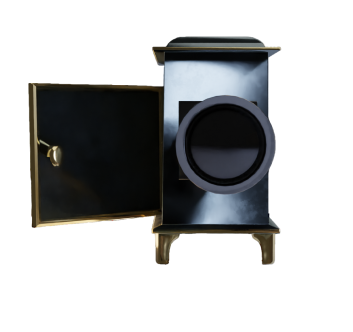
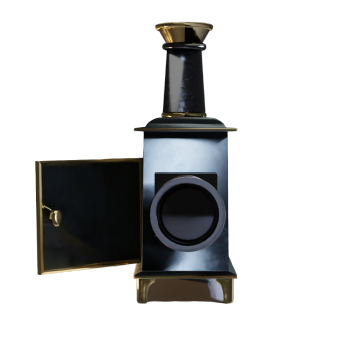
terminado linterna magica

diff --git a/src/web-app/components/DraggableLantern/DraggableLantern.jsx b/src/web-app/components/DraggableLantern/DraggableLantern.jsx
@@ -1,27 +1,38 @@
 import React, { useState, useEffect } from 'react';
 import DropZone from '../DropZone/DropZone'; // Importa el componente DropZone
 
-const DraggableLantern = ({ lanternState, srcBulb, srcPlaca, srcTop, onDrop }) => {
+const DraggableLantern = ({ lanternState, srcSin, srcBulb, srcTop, srcFront, srcPlaca, onDrop }) => {
   const [currentLanternState, setCurrentLanternState] = useState(lanternState); // Estado actual de la linterna mágica
+  const [flipped, setFlipped] = useState(false); // Estado para saber si la linterna está volteada
 
   useEffect(() => {
     setCurrentLanternState(lanternState);
   }, [lanternState]);
 
+  const handleImageClick = () => {
+    if (currentLanternState.hasBulb && currentLanternState.hasTop && !flipped) {
+      setFlipped(true);
+    }
+  };
+
   let lanternImage;
   let dropZones;
-  if (currentLanternState.hasBulb && currentLanternState.hasPlaca && currentLanternState.hasTop) {
-    lanternImage = null; // Imagen final de la linterna ensamblada
+
+  if (currentLanternState.hasBulb && currentLanternState.hasTop && currentLanternState.hasPlaca) {
+    lanternImage = srcPlaca; // Imagen final de la linterna ensamblada
     dropZones = null;
+  } else if (flipped) {
+    lanternImage = srcFront; // Imagen de la linterna girada para agregar la placa
+    dropZones = <DropZone id="placa-drop" onDrop={onDrop} style={{ top: '170px', left: '152px', width: '89px', height: '80px' }} />;
+  } else if (currentLanternState.hasBulb && currentLanternState.hasTop) {
+    lanternImage = srcTop; // Imagen de la linterna con el top añadido
+    // dropZones = <DropZone id="placa-drop" onDrop={onDrop} style={{ top: '170px', left: '152px', width: '89px', height: '80px', border: '2px dotted #000' }} />;
+  } else if (currentLanternState.hasBulb) {
+    lanternImage = srcBulb; // Imagen de la linterna con el bulb añadido
+    dropZones = <DropZone id="top-drop" onDrop={onDrop} style={{ top: '13px', left: '92px', width: '100px', height: '80px' }} />;
   } else {
-    lanternImage = srcBulb; // Imagen inicial de la linterna
-    dropZones = (
-      <>
-        {!currentLanternState.hasBulb && <DropZone id="bulb-drop" onDrop={onDrop} style={{ top: '10px', left: '154px', width: '80px', height: '80px' }} />}
-        {!currentLanternState.hasPlaca && <DropZone id="placa-drop" onDrop={onDrop} style={{ top: '100px', left: '154px', width: '80px', height: '80px' }} />}
-        {!currentLanternState.hasTop && <DropZone id="top-drop" onDrop={onDrop} style={{ top: '190px', left: '154px', width: '80px', height: '80px' }} />}
-      </>
-    );
+    lanternImage = srcSin; // Imagen inicial de la linterna
+    dropZones = <DropZone id="bulb-drop" onDrop={onDrop} style={{ top: '178px', left: '76px', width: '111px', height: '80px' }} />;
   }
 
   return (
@@ -30,6 +41,7 @@ const DraggableLantern = ({ lanternState, srcBulb, srcPlaca, srcTop, onDrop }) =
         position: 'relative',
         touchAction: 'none',
       }}
+      onClick={handleImageClick}
     >
       <img
         src={lanternImage}

diff --git a/src/web-app/screens/Puzzle/puzzle.jsx b/src/web-app/screens/Puzzle/puzzle.jsx
@@ -22,9 +22,15 @@ import cintaImage from './assets/proyector/CINTA.png'; // Imágenes del proyecto
 import lenteImages from './assets/proyector/LENTE.png';
 import luzImage from './assets/proyector/LUZ.png';
 
+
 import bulbImage from './assets/linterna/BULB.png'; // Imágenes de la linterna
 import placaImage from './assets/linterna/PLACA.png';
 import topImage from './assets/linterna/TOP.png';
+import Linternasin from './assets/linterna/Linternasin.png';
+import linternabulb from './assets/linterna/linternabulb.png';
+import linternatop from './assets/linterna/linternatop.png';
+import linternaFront from './assets/linterna/linternaFront.png';
+import linternaplaca from './assets/linterna/linternaplaca.png';
 
 import './puzzle.css';
 import { useSelector } from 'react-redux';
@@ -186,13 +192,15 @@ const Puzzle = () => {
             />
           )}
           {id === 'linterna' && (
-            <DraggableLantern
-              lanternState={lanternState}
-              srcBulb={bulbImage}
-              srcPlaca={placaImage}
-              srcTop={topImage}
-              onDrop={handleDrop}
-            />
+           <DraggableLantern
+           lanternState={lanternState}
+           srcSin={Linternasin}
+           srcBulb={linternabulb}
+           srcTop={linternatop}
+           srcFront={linternaFront}
+           srcPlaca={linternaplaca}
+           onDrop={handleDrop}
+         />
           )}
         </div>
         {feedbackMessage && (

diff --git a/src/index.js b/src/index.js
@@ -2,7 +2,7 @@ import React from 'react';
 import ReactDOM from 'react-dom/client';
 import { BrowserRouter } from "react-router-dom";
 import { Provider } from 'react-redux';
-import RouterDom from "../src/web-app/routes/RouterDom";
+import RouterDom from "../src/web-app/Routes/RouterDom";
 import { store } from './web-app/redux/store';
 
 const root = ReactDOM.createRoot(document.getElementById('root'));
